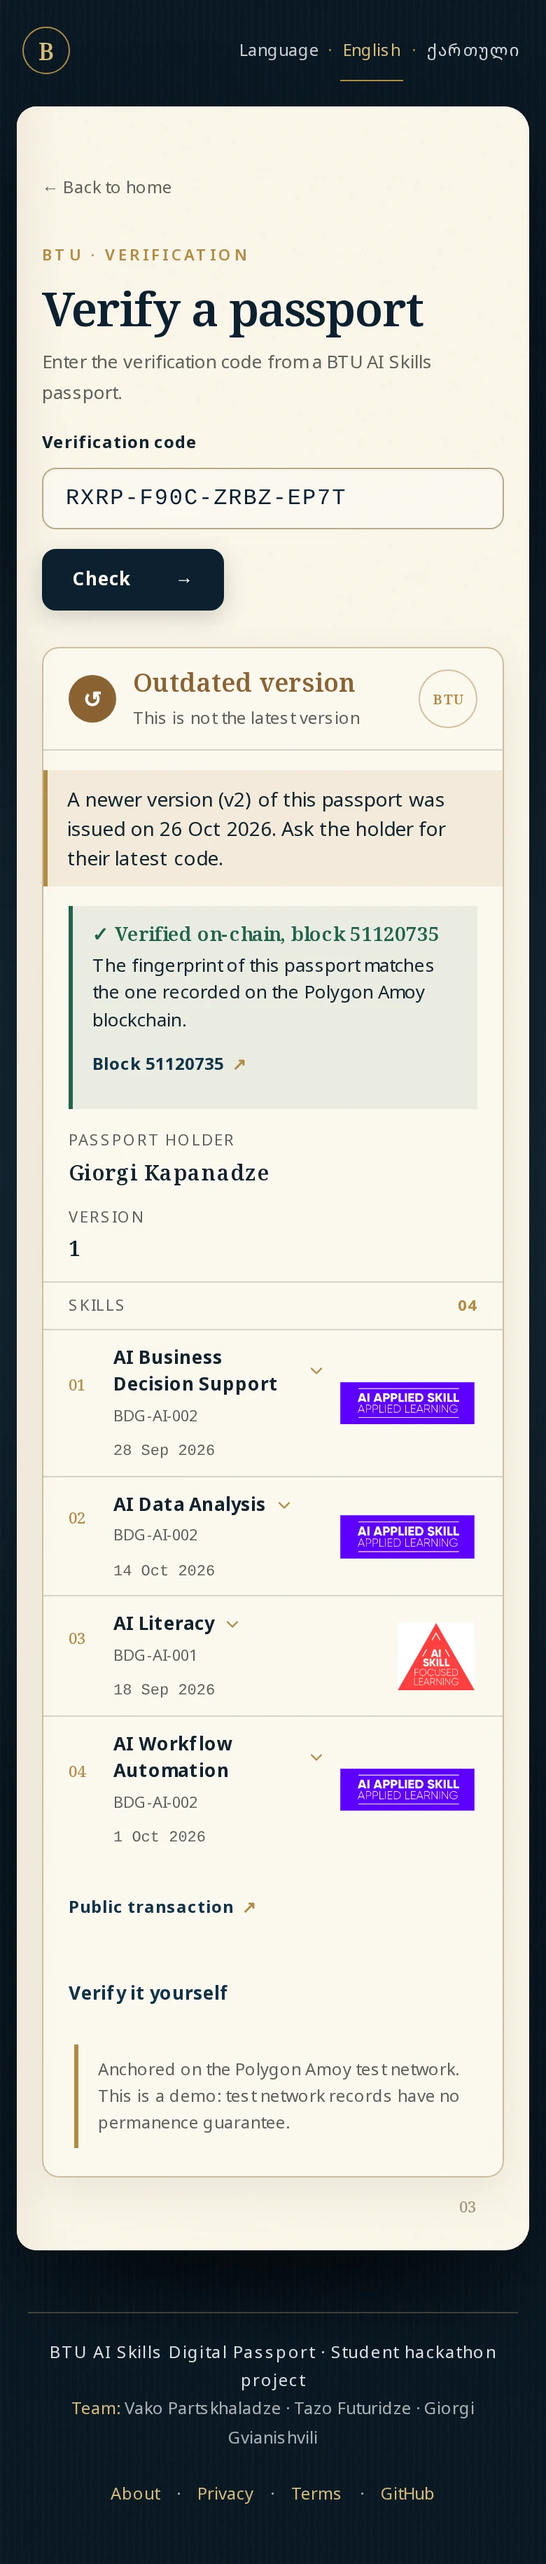
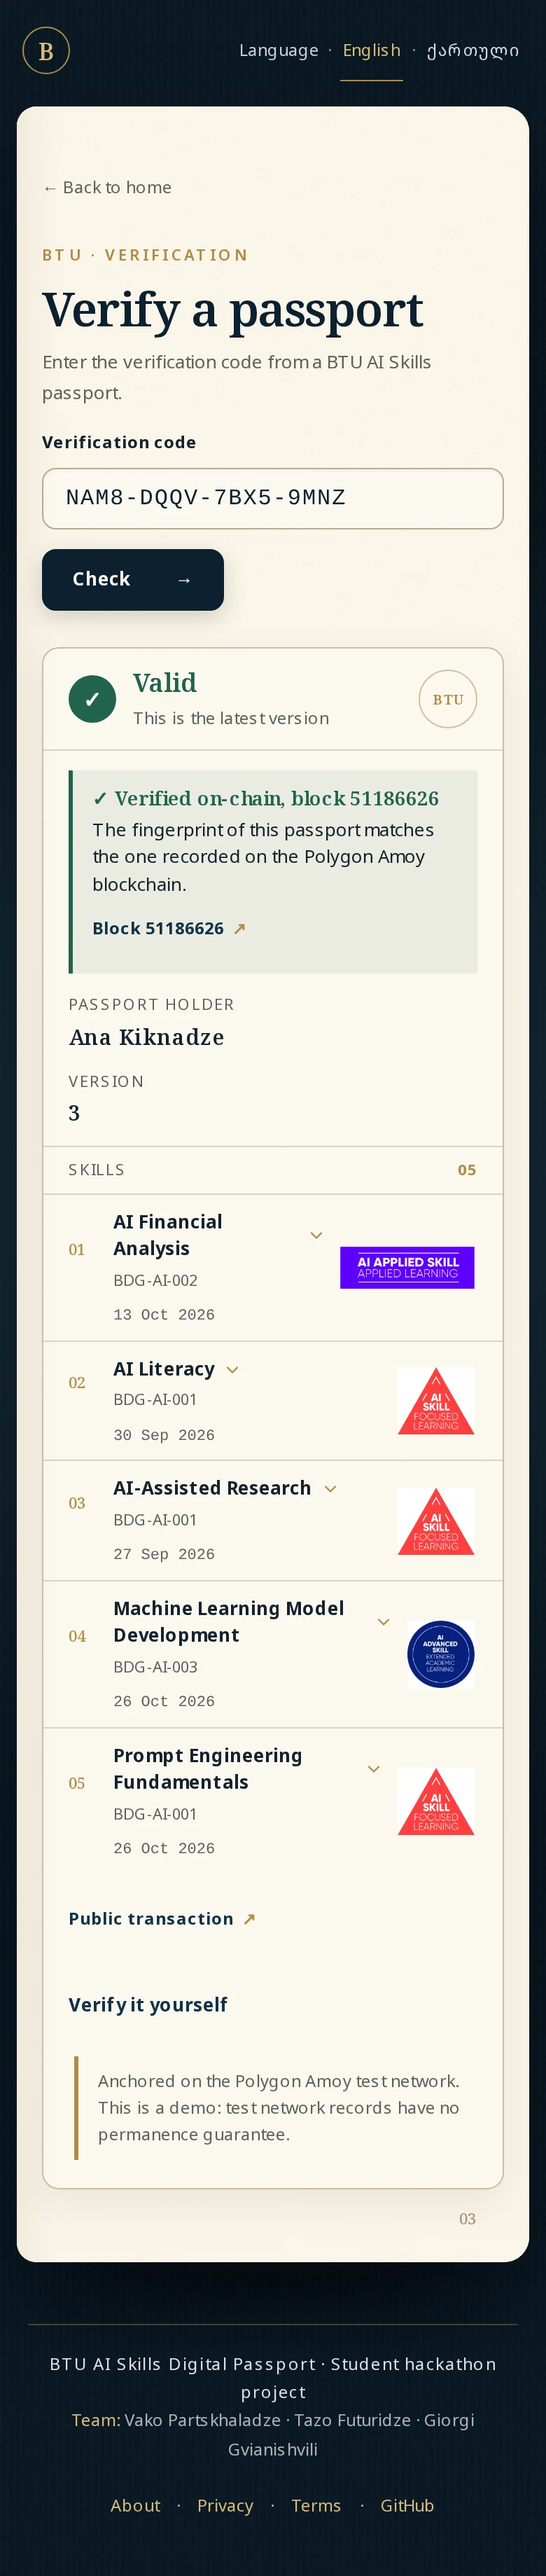
Retake verify screenshots with the latest version code, keep one outdated example

diff --git a/README.md b/README.md
@@ -19,13 +19,19 @@ It is also a test-engineering showcase: the interesting part is how it is checke
 
 | Verify result, English | Verify result, Georgian |
 | --- | --- |
-| ![Verify result with the on-chain check](docs/screenshots/verify-result.webp) | ![Verify result in Georgian](docs/screenshots/verify-georgian.webp) |
+| ![Valid latest version with the on-chain check](docs/screenshots/verify-result.webp) | ![Valid latest version in Georgian](docs/screenshots/verify-georgian.webp) |
+
+| Outdated version |
+| --- |
+| ![Outdated version with the on-chain check](docs/screenshots/verify-outdated.webp) |
+
+The last shot shows an older version of a passport. It is flagged as Outdated and points to the newer version, while its fingerprint still matches the one recorded on chain.
 
 Mobile (390 px wide):
 
 <img src="docs/screenshots/mobile.webp" alt="Verify result on a phone" width="390">
 
-The screenshots were taken on the live site. The verify result shows an older version of a sample passport: it is marked Outdated, and its fingerprint is checked against the Polygon Amoy contract (Verified on-chain). All names and data are fictional sample data, not real students.
+The screenshots were taken on the live site. All names and data are fictional sample data, not real students.
 
 ## Features
 
